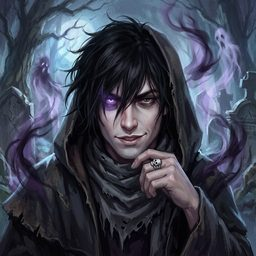
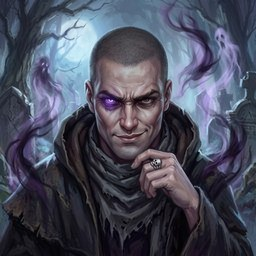
Duelo v39: novos retratos Gohan Gog, Nio, Pimp, Dudu

Changed region(s): [[0.2188, 0.0625, 0.8125, 0.6562]]

diff --git a/duelo/service-worker.js b/duelo/service-worker.js
@@ -1,4 +1,4 @@
-const CACHE="duelo-v38";
+const CACHE="duelo-v39";
 const FILES=["./","index.html","manifest.webmanifest","icon-192-v2.png","icon-512-v2.png","icon-mask-v2.png","img/a_n20.jpg","img/a_n21.jpg","img/a_n22.jpg","img/a_n23.jpg","img/a_n24.jpg","img/a_n25.jpg","img/a_n26.jpg","img/a_n27.jpg","img/a_n28.jpg","img/a_n29.jpg","img/a_n30.jpg","img/a_g8.jpg","img/a_c5.jpg","img/a_o6.jpg","img/a_z7.jpg","img/a_z8.jpg","img/a_d1.jpg","img/a_d3.jpg","img/a_d5.jpg","img/a_d6.jpg","img/a_i1.jpg","img/a_i2.jpg","img/a_i3.jpg","img/a_i5.jpg","img/a_i6.jpg","img/a_i7.jpg","img/a_pi1.jpg","img/a_pi2.jpg","img/a_pi3.jpg","img/a_pi4.jpg","img/a_pi5.jpg","img/a_pi6.jpg","img/a_pi7.jpg","img/a_pi8.jpg","img/a_pi9.jpg","img/a_pi10.jpg","img/a_pi11.jpg","img/a_pi12.jpg","img/a_te1.jpg","img/a_te2.jpg","img/a_te3.jpg","img/a_te4.jpg","img/a_te5.jpg","img/a_te6.jpg","img/a_te7.jpg","img/a_te8.jpg","img/a_te9.jpg","img/a_te10.jpg","img/a_te11.jpg","img/a_te12.jpg","img/a_du1.jpg","img/a_du2.jpg","img/a_du3.jpg","img/a_du4.jpg","img/a_du5.jpg","img/a_du6.jpg","img/a_du7.jpg","img/a_du8.jpg","img/a_du9.jpg","img/a_du10.jpg","img/a_du11.jpg","img/a_du12.jpg","img/a_sn1.jpg","img/a_sn2.jpg","img/a_sn3.jpg","img/a_sn4.jpg","img/a_sn5.jpg","img/a_sn6.jpg","img/a_sn7.jpg","img/a_sn8.jpg","img/a_sn9.jpg","img/a_sn10.jpg","img/a_sn11.jpg","img/a_sn12.jpg","img/a_ca1.jpg","img/a_ca2.jpg","img/a_ca3.jpg","img/a_ca4.jpg","img/a_ca5.jpg","img/a_ca6.jpg","img/a_ca7.jpg","img/a_ca8.jpg","img/a_ca9.jpg","img/a_ca10.jpg","img/a_ca11.jpg","img/a_ca12.jpg","img/a_ne1.jpg","img/a_ne2.jpg","img/a_ne3.jpg","img/a_ne4.jpg","img/a_ne5.jpg","img/a_ne6.jpg","img/a_ne7.jpg","img/a_ne8.jpg","img/a_ne9.jpg","img/a_ne10.jpg","img/a_ne11.jpg","img/a_ne12.jpg","img/a_b1.jpg","img/a_b2.jpg","img/a_b3.jpg","img/a_b4.jpg","img/a_b5.jpg","img/a_b6.jpg","img/a_b7.jpg","img/e1.jpg","img/e2.jpg","img/e3.jpg","img/e4.jpg","img/e5.jpg","img/intro_carta.png","img/intro_dragao.jpg","img/intro_fogo.mp3","img/intro_hora.mp3","img/m1.jpg","img/m10.jpg","img/m11.jpg","img/m12.jpg","img/m13.jpg","img/m14.jpg","img/m15.jpg","img/m16.jpg","img/m17.jpg","img/m18.jpg","img/m19.jpg","img/m2.jpg","img/m20.jpg","img/m21.jpg","img/m3.jpg","img/m4.jpg","img/m5.jpg","img/m6.jpg","img/m7.jpg","img/m8.jpg","img/m9.jpg","img/n1.jpg","img/n10.jpg","img/n11.jpg","img/n12.jpg","img/n13.jpg","img/n14.jpg","img/n15.jpg","img/n16.jpg","img/n17.jpg","img/n18.jpg","img/n2.jpg","img/n3.jpg","img/n4.jpg","img/n5.jpg","img/n6.jpg","img/n7.jpg","img/n8.jpg","img/n9.jpg","img/p_caio.jpg","img/p_dudu.jpg","img/p_iara.jpg","img/p_milao.jpg","img/p_nando.jpg","img/p_neri.jpg","img/p_otavio.jpg","img/p_pimp.jpg","img/p_snaf.jpg","img/p_telo.jpg","img/p_tiao.jpg","img/p_zeca.jpg","img/s1.jpg","img/s2.jpg","img/s3.jpg","img/s4.jpg","img/s5.jpg","img/s6.jpg","img/s7.jpg","img/s8.jpg","img/s9.jpg","img/t1.jpg","img/t2.jpg","img/t3.jpg","img/t4.jpg","voz/cabeca/atk0.mp3","voz/cabeca/atk1.mp3","voz/cabeca/atk2.mp3","voz/cabeca/atk3.mp3","voz/cabeca/atk4.mp3","voz/cabeca/c_ca10.mp3","voz/cabeca/c_ca11.mp3","voz/cabeca/c_ca12.mp3","voz/cabeca/c_ca9.mp3","voz/cabeca/c_g1.mp3","voz/cabeca/c_g2.mp3","voz/cabeca/c_g3.mp3","voz/cabeca/c_g4.mp3","voz/cabeca/c_g5.mp3","voz/cabeca/c_g6.mp3","voz/cabeca/c_g7.mp3","voz/cabeca/c_g8.mp3","voz/cabeca/c_n20.mp3","voz/cabeca/c_n22.mp3","voz/cabeca/c_n24.mp3","voz/cabeca/c_s2.mp3","voz/cabeca/c_s3.mp3","voz/cabeca/c_s4.mp3","voz/cabeca/c_s5.mp3","voz/cabeca/c_s7.mp3","voz/cabeca/c_t1.mp3","voz/cabeca/c_t2.mp3","voz/cabeca/c_t3.mp3","voz/cabeca/c_t4.mp3","voz/cabeca/dano0.mp3","voz/cabeca/dano1.mp3","voz/cabeca/dano2.mp3","voz/cabeca/dano3.mp3","voz/cabeca/dano4.mp3","voz/cabeca/dano5.mp3","voz/cabeca/ganhei0.mp3","voz/cabeca/inicio0.mp3","voz/cabeca/inv0.mp3","voz/cabeca/inv1.mp3","voz/cabeca/inv2.mp3","voz/cabeca/inv3.mp3","voz/cabeca/inv4.mp3","voz/cabeca/magia0.mp3","voz/cabeca/magia1.mp3","voz/cabeca/magia2.mp3","voz/cabeca/magia3.mp3","voz/cabeca/pass0.mp3","voz/cabeca/pass1.mp3","voz/cabeca/pass2.mp3","voz/cabeca/pass3.mp3","voz/cabeca/perdi0.mp3","voz/cabeca/perdi1.mp3","voz/cabeca/reage0.mp3","voz/cabeca/reage1.mp3","voz/cabeca/reage2.mp3","voz/cabeca/reage3.mp3","voz/cabeca/reage4.mp3","voz/cabeca/reage5.mp3","voz/cabeca/reage6.mp3","voz/cabeca/reage7.mp3","voz/cabeca/susto0.mp3","voz/cabeca/susto1.mp3","voz/cabeca/susto2.mp3","voz/cabeca/susto3.mp3","voz/caio/atk0.mp3","voz/caio/atk1.mp3","voz/caio/atk2.mp3","voz/caio/atk3.mp3","voz/caio/atk4.mp3","voz/caio/c_g1.mp3","voz/caio/c_g2.mp3","voz/caio/c_g3.mp3","voz/caio/c_g4.mp3","voz/caio/c_g5.mp3","voz/caio/c_g7.mp3","voz/caio/c_n3.mp3","voz/caio/c_s1.mp3","voz/caio/c_s3.mp3","voz/caio/c_s4.mp3","voz/caio/c_s5.mp3","voz/caio/c_s6.mp3","voz/caio/c_s7.mp3","voz/caio/c_s8.mp3","voz/caio/c_s9.mp3","voz/caio/c_t1.mp3","voz/caio/c_t2.mp3","voz/caio/c_t3.mp3","voz/caio/c_t4.mp3","voz/caio/dano0.mp3","voz/caio/dano1.mp3","voz/caio/dano2.mp3","voz/caio/dano3.mp3","voz/caio/dano4.mp3","voz/caio/dano5.mp3","voz/caio/ganhei0.mp3","voz/caio/inicio0.mp3","voz/caio/inv0.mp3","voz/caio/inv1.mp3","voz/caio/inv2.mp3","voz/caio/inv3.mp3","voz/caio/inv4.mp3","voz/caio/magia0.mp3","voz/caio/magia1.mp3","voz/caio/magia2.mp3","voz/caio/magia3.mp3","voz/caio/pass0.mp3","voz/caio/pass1.mp3","voz/caio/pass2.mp3","voz/caio/pass3.mp3","voz/caio/perdi0.mp3","voz/caio/perdi1.mp3","voz/caio/reage0.mp3","voz/caio/reage1.mp3","voz/caio/reage2.mp3","voz/caio/reage3.mp3","voz/caio/reage4.mp3","voz/caio/reage5.mp3","voz/caio/reage6.mp3","voz/caio/reage7.mp3","voz/caio/susto0.mp3","voz/caio/susto1.mp3","voz/caio/susto2.mp3","voz/caio/susto3.mp3","voz/conde/atk0.mp3","voz/conde/atk1.mp3","voz/conde/atk2.mp3","voz/conde/atk3.mp3","voz/conde/atk4.mp3","voz/conde/c_b2.mp3","voz/conde/c_b3.mp3","voz/conde/c_b4.mp3","voz/conde/c_g1.mp3","voz/conde/c_g2.mp3","voz/conde/c_g3.mp3","voz/conde/c_g4.mp3","voz/conde/c_g5.mp3","voz/conde/c_g6.mp3","voz/conde/c_g7.mp3","voz/conde/c_n18.mp3","voz/conde/c_n3.mp3","voz/conde/c_s1.mp3","voz/conde/c_s3.mp3","voz/conde/c_s4.mp3","voz/conde/c_s5.mp3","voz/conde/c_s6.mp3","voz/conde/c_s7.mp3","voz/conde/c_s8.mp3","voz/conde/c_s9.mp3","voz/conde/c_t1.mp3","voz/conde/c_t2.mp3","voz/conde/c_t3.mp3","voz/conde/c_t4.mp3","voz/conde/dano0.mp3","voz/conde/dano1.mp3","voz/conde/dano2.mp3","voz/conde/dano3.mp3","voz/conde/dano4.mp3","voz/conde/dano5.mp3","voz/conde/ganhei0.mp3","voz/conde/inicio0.mp3","voz/conde/inv0.mp3","voz/conde/inv1.mp3","voz/conde/inv2.mp3","voz/conde/inv3.mp3","voz/conde/inv4.mp3","voz/conde/magia0.mp3","voz/conde/magia1.mp3","voz/conde/magia2.mp3","voz/conde/magia3.mp3","voz/conde/pass0.mp3","voz/conde/pass1.mp3","voz/conde/pass2.mp3","voz/conde/pass3.mp3","voz/conde/perdi0.mp3","voz/conde/perdi1.mp3","voz/conde/reage0.mp3","voz/conde/reage1.mp3","voz/conde/reage2.mp3","voz/conde/reage3.mp3","voz/conde/reage4.mp3","voz/conde/reage5.mp3","voz/conde/reage6.mp3","voz/conde/reage7.mp3","voz/conde/susto0.mp3","voz/conde/susto1.mp3","voz/conde/susto2.mp3","voz/conde/susto3.mp3","voz/dudu/atk0.mp3","voz/dudu/atk1.mp3","voz/dudu/atk2.mp3","voz/dudu/atk3.mp3","voz/dudu/atk4.mp3","voz/dudu/c_du10.mp3","voz/dudu/c_du11.mp3","voz/dudu/c_du12.mp3","voz/dudu/c_du9.mp3","voz/dudu/c_g1.mp3","voz/dudu/c_g2.mp3","voz/dudu/c_g3.mp3","voz/dudu/c_g4.mp3","voz/dudu/c_g5.mp3","voz/dudu/c_g6.mp3","voz/dudu/c_g7.mp3","voz/dudu/c_n11.mp3","voz/dudu/c_n7.mp3","voz/dudu/c_s2.mp3","voz/dudu/c_s3.mp3","voz/dudu/c_s4.mp3","voz/dudu/c_s5.mp3","voz/dudu/c_s7.mp3","voz/dudu/c_s8.mp3","voz/dudu/c_s9.mp3","voz/dudu/c_t1.mp3","voz/dudu/c_t2.mp3","voz/dudu/c_t3.mp3","voz/dudu/c_t4.mp3","voz/dudu/dano0.mp3","voz/dudu/dano1.mp3","voz/dudu/dano2.mp3","voz/dudu/dano3.mp3","voz/dudu/dano4.mp3","voz/dudu/dano5.mp3","voz/dudu/ganhei0.mp3","voz/dudu/inicio0.mp3","voz/dudu/inv0.mp3","voz/dudu/inv1.mp3","voz/dudu/inv2.mp3","voz/dudu/inv3.mp3","voz/dudu/inv4.mp3","voz/dudu/magia0.mp3","voz/dudu/magia1.mp3","voz/dudu/magia2.mp3","voz/dudu/magia3.mp3","voz/dudu/pass0.mp3","voz/dudu/pass1.mp3","voz/dudu/pass2.mp3","voz/dudu/pass3.mp3","voz/dudu/perdi0.mp3","voz/dudu/perdi1.mp3","voz/dudu/reage0.mp3","voz/dudu/reage1.mp3","voz/dudu/reage2.mp3","voz/dudu/reage3.mp3","voz/dudu/reage4.mp3","voz/dudu/reage5.mp3","voz/dudu/reage6.mp3","voz/dudu/reage7.mp3","voz/dudu/susto0.mp3","voz/dudu/susto1.mp3","voz/dudu/susto2.mp3","voz/dudu/susto3.mp3","voz/iara/atk0.mp3","voz/iara/atk1.mp3","voz/iara/atk2.mp3","voz/iara/atk3.mp3","voz/iara/atk4.mp3","voz/iara/c_g1.mp3","voz/iara/c_g2.mp3","voz/iara/c_g3.mp3","voz/iara/c_g4.mp3","voz/iara/c_g5.mp3","voz/iara/c_g6.mp3","voz/iara/c_g7.mp3","voz/iara/c_g8.mp3","voz/iara/c_i6.mp3","voz/iara/c_i7.mp3","voz/iara/c_n24.mp3","voz/iara/c_n30.mp3","voz/iara/c_s3.mp3","voz/iara/c_s4.mp3","voz/iara/c_s5.mp3","voz/iara/c_s6.mp3","voz/iara/c_s7.mp3","voz/iara/c_s8.mp3","voz/iara/c_s9.mp3","voz/iara/c_t1.mp3","voz/iara/c_t2.mp3","voz/iara/c_t3.mp3","voz/iara/c_t4.mp3","voz/iara/dano0.mp3","voz/iara/dano1.mp3","voz/iara/dano2.mp3","voz/iara/dano3.mp3","voz/iara/dano4.mp3","voz/iara/dano5.mp3","voz/iara/ganhei0.mp3","voz/iara/inicio0.mp3","voz/iara/inv0.mp3","voz/iara/inv1.mp3","voz/iara/inv2.mp3","voz/iara/inv3.mp3","voz/iara/inv4.mp3","voz/iara/magia0.mp3","voz/iara/magia1.mp3","voz/iara/magia2.mp3","voz/iara/magia3.mp3","voz/iara/pass0.mp3","voz/iara/pass1.mp3","voz/iara/pass2.mp3","voz/iara/pass3.mp3","voz/iara/perdi0.mp3","voz/iara/perdi1.mp3","voz/iara/reage0.mp3","voz/iara/reage1.mp3","voz/iara/reage2.mp3","voz/iara/reage3.mp3","voz/iara/reage4.mp3","voz/iara/reage5.mp3","voz/iara/reage6.mp3","voz/iara/reage7.mp3","voz/iara/susto0.mp3","voz/iara/susto1.mp3","voz/iara/susto2.mp3","voz/iara/susto3.mp3","voz/nando/atk0.mp3","voz/nando/atk1.mp3","voz/nando/atk2.mp3","voz/nando/atk3.mp3","voz/nando/atk4.mp3","voz/nando/c_d6.mp3","voz/nando/c_g1.mp3","voz/nando/c_g2.mp3","voz/nando/c_g3.mp3","voz/nando/c_g4.mp3","voz/nando/c_g5.mp3","voz/nando/c_g6.mp3","voz/nando/c_g7.mp3","voz/nando/c_g8.mp3","voz/nando/c_n20.mp3","voz/nando/c_n22.mp3","voz/nando/c_n23.mp3","voz/nando/c_n24.mp3","voz/nando/c_s2.mp3","voz/nando/c_s3.mp3","voz/nando/c_s4.mp3","voz/nando/c_s5.mp3","voz/nando/c_s7.mp3","voz/nando/c_s8.mp3","voz/nando/c_t1.mp3","voz/nando/c_t2.mp3","voz/nando/c_t3.mp3","voz/nando/c_t4.mp3","voz/nando/dano0.mp3","voz/nando/dano1.mp3","voz/nando/dano2.mp3","voz/nando/dano3.mp3","voz/nando/dano4.mp3","voz/nando/dano5.mp3","voz/nando/ganhei0.mp3","voz/nando/inicio0.mp3","voz/nando/inv0.mp3","voz/nando/inv1.mp3","voz/nando/inv2.mp3","voz/nando/inv3.mp3","voz/nando/inv4.mp3","voz/nando/magia0.mp3","voz/nando/magia1.mp3","voz/nando/magia2.mp3","voz/nando/magia3.mp3","voz/nando/pass0.mp3","voz/nando/pass1.mp3","voz/nando/pass2.mp3","voz/nando/pass3.mp3","voz/nando/perdi0.mp3","voz/nando/perdi1.mp3","voz/nando/reage0.mp3","voz/nando/reage1.mp3","voz/nando/reage2.mp3","voz/nando/reage3.mp3","voz/nando/reage4.mp3","voz/nando/reage5.mp3","voz/nando/reage6.mp3","voz/nando/reage7.mp3","voz/nando/susto0.mp3","voz/nando/susto1.mp3","voz/nando/susto2.mp3","voz/nando/susto3.mp3","voz/neri/atk0.mp3","voz/neri/atk1.mp3","voz/neri/atk2.mp3","voz/neri/atk3.mp3","voz/neri/atk4.mp3","voz/neri/c_g1.mp3","voz/neri/c_g2.mp3","voz/neri/c_g3.mp3","voz/neri/c_g4.mp3","voz/neri/c_g5.mp3","voz/neri/c_g6.mp3","voz/neri/c_g7.mp3","voz/neri/c_g8.mp3","voz/neri/c_n24.mp3","voz/neri/c_ne10.mp3","voz/neri/c_ne11.mp3","voz/neri/c_ne12.mp3","voz/neri/c_ne9.mp3","voz/neri/c_s3.mp3","voz/neri/c_s4.mp3","voz/neri/c_s5.mp3","voz/neri/c_s6.mp3","voz/neri/c_s7.mp3","voz/neri/c_s8.mp3","voz/neri/c_s9.mp3","voz/neri/c_t1.mp3","voz/neri/c_t2.mp3","voz/neri/c_t3.mp3","voz/neri/c_t4.mp3","voz/neri/dano0.mp3","voz/neri/dano1.mp3","voz/neri/dano2.mp3","voz/neri/dano3.mp3","voz/neri/dano4.mp3","voz/neri/dano5.mp3","voz/neri/ganhei0.mp3","voz/neri/inicio0.mp3","voz/neri/inv0.mp3","voz/neri/inv1.mp3","voz/neri/inv2.mp3","voz/neri/inv3.mp3","voz/neri/inv4.mp3","voz/neri/magia0.mp3","voz/neri/magia1.mp3","voz/neri/magia2.mp3","voz/neri/magia3.mp3","voz/neri/pass0.mp3","voz/neri/pass1.mp3","voz/neri/pass2.mp3","voz/neri/pass3.mp3","voz/neri/perdi0.mp3","voz/neri/perdi1.mp3","voz/neri/reage0.mp3","voz/neri/reage1.mp3","voz/neri/reage2.mp3","voz/neri/reage3.mp3","voz/neri/reage4.mp3","voz/neri/reage5.mp3","voz/neri/reage6.mp3","voz/neri/reage7.mp3","voz/neri/susto0.mp3","voz/neri/susto1.mp3","voz/neri/susto2.mp3","voz/neri/susto3.mp3","voz/otavio/atk0.mp3","voz/otavio/atk1.mp3","voz/otavio/atk2.mp3","voz/otavio/atk3.mp3","voz/otavio/atk4.mp3","voz/otavio/c_g1.mp3","voz/otavio/c_g2.mp3","voz/otavio/c_g3.mp3","voz/otavio/c_g4.mp3","voz/otavio/c_g5.mp3","voz/otavio/c_g6.mp3","voz/otavio/c_g7.mp3","voz/otavio/c_n7.mp3","voz/otavio/c_s1.mp3","voz/otavio/c_s2.mp3","voz/otavio/c_s3.mp3","voz/otavio/c_s4.mp3","voz/otavio/c_s5.mp3","voz/otavio/c_s7.mp3","voz/otavio/c_s8.mp3","voz/otavio/c_s9.mp3","voz/otavio/c_t1.mp3","voz/otavio/c_t2.mp3","voz/otavio/c_t3.mp3","voz/otavio/c_t4.mp3","voz/otavio/dano0.mp3","voz/otavio/dano1.mp3","voz/otavio/dano2.mp3","voz/otavio/dano3.mp3","voz/otavio/dano4.mp3","voz/otavio/dano5.mp3","voz/otavio/ganhei0.mp3","voz/otavio/inicio0.mp3","voz/otavio/inv0.mp3","voz/otavio/inv1.mp3","voz/otavio/inv2.mp3","voz/otavio/inv3.mp3","voz/otavio/inv4.mp3","voz/otavio/magia0.mp3","voz/otavio/magia1.mp3","voz/otavio/magia2.mp3","voz/otavio/magia3.mp3","voz/otavio/pass0.mp3","voz/otavio/pass1.mp3","voz/otavio/pass2.mp3","voz/otavio/pass3.mp3","voz/otavio/perdi0.mp3","voz/otavio/perdi1.mp3","voz/otavio/reage0.mp3","voz/otavio/reage1.mp3","voz/otavio/reage2.mp3","voz/otavio/reage3.mp3","voz/otavio/reage4.mp3","voz/otavio/reage5.mp3","voz/otavio/reage6.mp3","voz/otavio/reage7.mp3","voz/otavio/susto0.mp3","voz/otavio/susto1.mp3","voz/otavio/susto2.mp3","voz/otavio/susto3.mp3","voz/pimp/atk0.mp3","voz/pimp/atk1.mp3","voz/pimp/atk2.mp3","voz/pimp/atk3.mp3","voz/pimp/atk4.mp3","voz/pimp/c_g1.mp3","voz/pimp/c_g2.mp3","voz/pimp/c_g3.mp3","voz/pimp/c_g4.mp3","voz/pimp/c_g5.mp3","voz/pimp/c_g6.mp3","voz/pimp/c_g7.mp3","voz/pimp/c_g8.mp3","voz/pimp/c_n23.mp3","voz/pimp/c_n24.mp3","voz/pimp/c_pi10.mp3","voz/pimp/c_pi11.mp3","voz/pimp/c_pi12.mp3","voz/pimp/c_pi9.mp3","voz/pimp/c_s2.mp3","voz/pimp/c_s3.mp3","voz/pimp/c_s4.mp3","voz/pimp/c_s5.mp3","voz/pimp/c_s7.mp3","voz/pimp/c_s8.mp3","voz/pimp/c_s9.mp3","voz/pimp/c_t1.mp3","voz/pimp/c_t2.mp3","voz/pimp/c_t3.mp3","voz/pimp/c_t4.mp3","voz/pimp/dano0.mp3","voz/pimp/dano1.mp3","voz/pimp/dano2.mp3","voz/pimp/dano3.mp3","voz/pimp/dano4.mp3","voz/pimp/dano5.mp3","voz/pimp/ganhei0.mp3","voz/pimp/inicio0.mp3","voz/pimp/inv0.mp3","voz/pimp/inv1.mp3","voz/pimp/inv2.mp3","voz/pimp/inv3.mp3","voz/pimp/inv4.mp3","voz/pimp/magia0.mp3","voz/pimp/magia1.mp3","voz/pimp/magia2.mp3","voz/pimp/magia3.mp3","voz/pimp/pass0.mp3","voz/pimp/pass1.mp3","voz/pimp/pass2.mp3","voz/pimp/pass3.mp3","voz/pimp/perdi0.mp3","voz/pimp/perdi1.mp3","voz/pimp/reage0.mp3","voz/pimp/reage1.mp3","voz/pimp/reage2.mp3","voz/pimp/reage3.mp3","voz/pimp/reage4.mp3","voz/pimp/reage5.mp3","voz/pimp/reage6.mp3","voz/pimp/reage7.mp3","voz/pimp/susto0.mp3","voz/pimp/susto1.mp3","voz/pimp/susto2.mp3","voz/pimp/susto3.mp3","voz/snaf/atk0.mp3","voz/snaf/atk1.mp3","voz/snaf/atk2.mp3","voz/snaf/atk3.mp3","voz/snaf/atk4.mp3","voz/snaf/c_g1.mp3","voz/snaf/c_g2.mp3","voz/snaf/c_g3.mp3","voz/snaf/c_g4.mp3","voz/snaf/c_g5.mp3","voz/snaf/c_g6.mp3","voz/snaf/c_g7.mp3","voz/snaf/c_g8.mp3","voz/snaf/c_n24.mp3","voz/snaf/c_s2.mp3","voz/snaf/c_s3.mp3","voz/snaf/c_s4.mp3","voz/snaf/c_s5.mp3","voz/snaf/c_s7.mp3","voz/snaf/c_s8.mp3","voz/snaf/c_s9.mp3","voz/snaf/c_sn10.mp3","voz/snaf/c_sn11.mp3","voz/snaf/c_sn12.mp3","voz/snaf/c_sn9.mp3","voz/snaf/c_t1.mp3","voz/snaf/c_t2.mp3","voz/snaf/c_t3.mp3","voz/snaf/c_t4.mp3","voz/snaf/dano0.mp3","voz/snaf/dano1.mp3","voz/snaf/dano2.mp3","voz/snaf/dano3.mp3","voz/snaf/dano4.mp3","voz/snaf/dano5.mp3","voz/snaf/ganhei0.mp3","voz/snaf/inicio0.mp3","voz/snaf/inv0.mp3","voz/snaf/inv1.mp3","voz/snaf/inv2.mp3","voz/snaf/inv3.mp3","voz/snaf/inv4.mp3","voz/snaf/magia0.mp3","voz/snaf/magia1.mp3","voz/snaf/magia2.mp3","voz/snaf/magia3.mp3","voz/snaf/pass0.mp3","voz/snaf/pass1.mp3","voz/snaf/pass2.mp3","voz/snaf/pass3.mp3","voz/snaf/perdi0.mp3","voz/snaf/perdi1.mp3","voz/snaf/reage0.mp3","voz/snaf/reage1.mp3","voz/snaf/reage2.mp3","voz/snaf/reage3.mp3","voz/snaf/reage4.mp3","voz/snaf/reage5.mp3","voz/snaf/reage6.mp3","voz/snaf/reage7.mp3","voz/snaf/susto0.mp3","voz/snaf/susto1.mp3","voz/snaf/susto2.mp3","voz/snaf/susto3.mp3","voz/telo/atk0.mp3","voz/telo/atk1.mp3","voz/telo/atk2.mp3","voz/telo/atk3.mp3","voz/telo/atk4.mp3","voz/telo/c_g1.mp3","voz/telo/c_g2.mp3","voz/telo/c_g3.mp3","voz/telo/c_g4.mp3","voz/telo/c_g5.mp3","voz/telo/c_g6.mp3","voz/telo/c_g7.mp3","voz/telo/c_g8.mp3","voz/telo/c_n24.mp3","voz/telo/c_s1.mp3","voz/telo/c_s3.mp3","voz/telo/c_s4.mp3","voz/telo/c_s5.mp3","voz/telo/c_s7.mp3","voz/telo/c_s8.mp3","voz/telo/c_t1.mp3","voz/telo/c_t2.mp3","voz/telo/c_t3.mp3","voz/telo/c_t4.mp3","voz/telo/c_te10.mp3","voz/telo/c_te11.mp3","voz/telo/c_te12.mp3","voz/telo/c_te9.mp3","voz/telo/dano0.mp3","voz/telo/dano1.mp3","voz/telo/dano2.mp3","voz/telo/dano3.mp3","voz/telo/dano4.mp3","voz/telo/dano5.mp3","voz/telo/ganhei0.mp3","voz/telo/inicio0.mp3","voz/telo/inv0.mp3","voz/telo/inv1.mp3","voz/telo/inv2.mp3","voz/telo/inv3.mp3","voz/telo/inv4.mp3","voz/telo/magia0.mp3","voz/telo/magia1.mp3","voz/telo/magia2.mp3","voz/telo/magia3.mp3","voz/telo/pass0.mp3","voz/telo/pass1.mp3","voz/telo/pass2.mp3","voz/telo/pass3.mp3","voz/telo/perdi0.mp3","voz/telo/perdi1.mp3","voz/telo/reage0.mp3","voz/telo/reage1.mp3","voz/telo/reage2.mp3","voz/telo/reage3.mp3","voz/telo/reage4.mp3","voz/telo/reage5.mp3","voz/telo/reage6.mp3","voz/telo/reage7.mp3","voz/telo/susto0.mp3","voz/telo/susto1.mp3","voz/telo/susto2.mp3","voz/telo/susto3.mp3","voz/tiao/atk0.mp3","voz/tiao/atk1.mp3","voz/tiao/atk2.mp3","voz/tiao/atk3.mp3","voz/tiao/atk4.mp3","voz/tiao/c_g1.mp3","voz/tiao/c_g2.mp3","voz/tiao/c_g3.mp3","voz/tiao/c_g4.mp3","voz/tiao/c_g5.mp3","voz/tiao/c_g6.mp3","voz/tiao/c_g7.mp3","voz/tiao/c_g8.mp3","voz/tiao/c_h7.mp3","voz/tiao/c_h8.mp3","voz/tiao/c_n11.mp3","voz/tiao/c_n12.mp3","voz/tiao/c_s3.mp3","voz/tiao/c_s4.mp3","voz/tiao/c_s5.mp3","voz/tiao/c_s7.mp3","voz/tiao/c_s8.mp3","voz/tiao/c_s9.mp3","voz/tiao/c_t1.mp3","voz/tiao/c_t2.mp3","voz/tiao/c_t3.mp3","voz/tiao/c_t4.mp3","voz/tiao/dano0.mp3","voz/tiao/dano1.mp3","voz/tiao/dano2.mp3","voz/tiao/dano3.mp3","voz/tiao/dano4.mp3","voz/tiao/dano5.mp3","voz/tiao/ganhei0.mp3","voz/tiao/inicio0.mp3","voz/tiao/inv0.mp3","voz/tiao/inv1.mp3","voz/tiao/inv2.mp3","voz/tiao/inv3.mp3","voz/tiao/inv4.mp3","voz/tiao/magia0.mp3","voz/tiao/magia1.mp3","voz/tiao/magia2.mp3","voz/tiao/magia3.mp3","voz/tiao/pass0.mp3","voz/tiao/pass1.mp3","voz/tiao/pass2.mp3","voz/tiao/pass3.mp3","voz/tiao/perdi0.mp3","voz/tiao/perdi1.mp3","voz/tiao/reage0.mp3","voz/tiao/reage1.mp3","voz/tiao/reage2.mp3","voz/tiao/reage3.mp3","voz/tiao/reage4.mp3","voz/tiao/reage5.mp3","voz/tiao/reage6.mp3","voz/tiao/reage7.mp3","voz/tiao/susto0.mp3","voz/tiao/susto1.mp3","voz/tiao/susto2.mp3","voz/tiao/susto3.mp3","voz/zeca/atk0.mp3","voz/zeca/atk1.mp3","voz/zeca/atk2.mp3","voz/zeca/atk3.mp3","voz/zeca/atk4.mp3","voz/zeca/c_g1.mp3","voz/zeca/c_g2.mp3","voz/zeca/c_g3.mp3","voz/zeca/c_g4.mp3","voz/zeca/c_g5.mp3","voz/zeca/c_g6.mp3","voz/zeca/c_g7.mp3","voz/zeca/c_g8.mp3","voz/zeca/c_n12.mp3","voz/zeca/c_n18.mp3","voz/zeca/c_s3.mp3","voz/zeca/c_s4.mp3","voz/zeca/c_s5.mp3","voz/zeca/c_s6.mp3","voz/zeca/c_s7.mp3","voz/zeca/c_s8.mp3","voz/zeca/c_s9.mp3","voz/zeca/c_t1.mp3","voz/zeca/c_t2.mp3","voz/zeca/c_t3.mp3","voz/zeca/c_t4.mp3","voz/zeca/c_z6.mp3","voz/zeca/c_z7.mp3","voz/zeca/c_z8.mp3","voz/zeca/dano0.mp3","voz/zeca/dano1.mp3","voz/zeca/dano2.mp3","voz/zeca/dano3.mp3","voz/zeca/dano4.mp3","voz/zeca/dano5.mp3","voz/zeca/ganhei0.mp3","voz/zeca/inicio0.mp3","voz/zeca/inv0.mp3","voz/zeca/inv1.mp3","voz/zeca/inv2.mp3","voz/zeca/inv3.mp3","voz/zeca/inv4.mp3","voz/zeca/magia0.mp3","voz/zeca/magia1.mp3","voz/zeca/magia2.mp3","voz/zeca/magia3.mp3","voz/zeca/pass0.mp3","voz/zeca/pass1.mp3","voz/zeca/pass2.mp3","voz/zeca/pass3.mp3","voz/zeca/perdi0.mp3","voz/zeca/perdi1.mp3","voz/zeca/reage0.mp3","voz/zeca/reage1.mp3","voz/zeca/reage2.mp3","voz/zeca/reage3.mp3","voz/zeca/reage4.mp3","voz/zeca/reage5.mp3","voz/zeca/reage6.mp3","voz/zeca/reage7.mp3","voz/zeca/susto0.mp3","voz/zeca/susto1.mp3","voz/zeca/susto2.mp3","voz/zeca/susto3.mp3"];
 self.addEventListener("install",e=>{self.skipWaiting();e.waitUntil(caches.open(CACHE).then(c=>Promise.all(FILES.map(f=>c.add(f).catch(()=>{})))));});
 self.addEventListener("activate",e=>{e.waitUntil(caches.keys().then(k=>Promise.all(k.filter(x=>x!==CACHE).map(x=>caches.delete(x)))).then(()=>self.clients.claim()));});

diff --git a/duelo/index.html b/duelo/index.html
@@ -116,7 +116,7 @@ input{font-size:18px;padding:10px;border-radius:10px;border:0;width:100%;text-al
   <button class="sec" onclick="regras()">📖 Regras</button>
   <div id="lobby" class="esc" style="margin-top:10px"></div>
  </div>
- <div id="verTag" style="font-size:11px;opacity:.6">versão 38</div>
+ <div id="verTag" style="font-size:11px;opacity:.6">versão 39</div>
 </div>
 
 <div id="escolha" class="esc"><h2 style="color:#fbbf24">Escolha seu duelista</h2><div id="persGrid"></div><button class="sec" onclick="voltaMenu()">⬅ Voltar</button></div>
